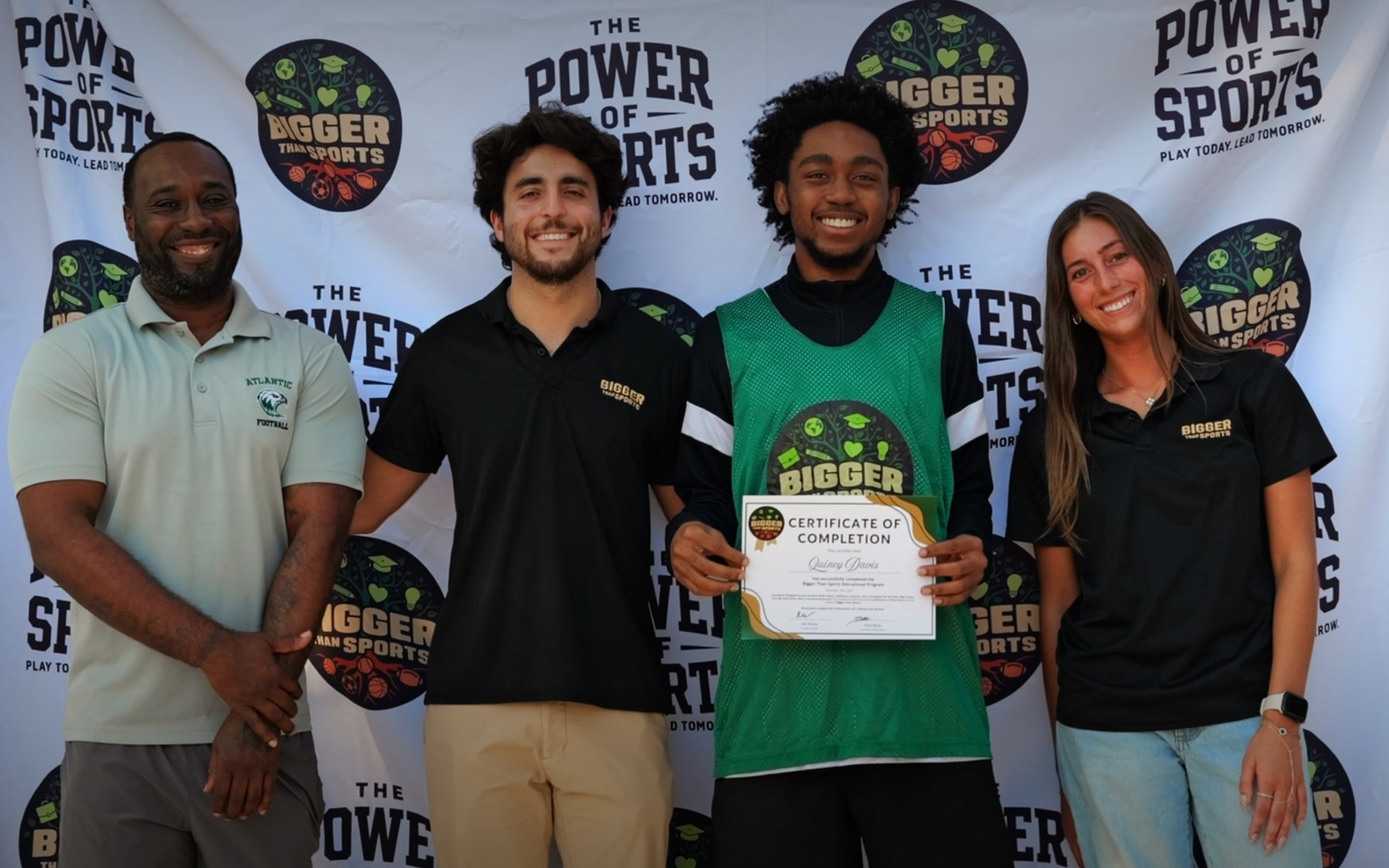
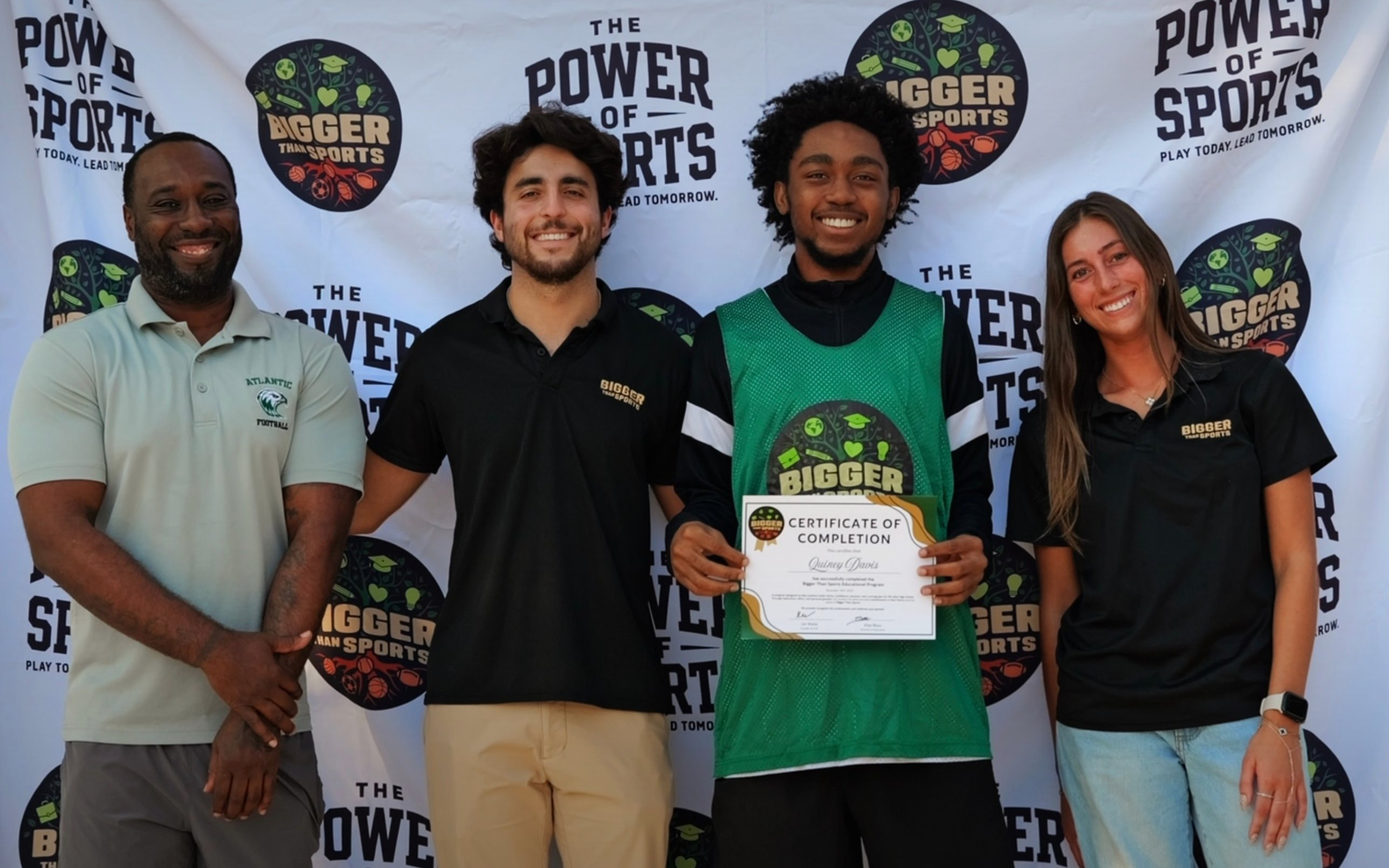
Lighten Results photo gradient further
Still too dark per Ian's feedback, dropped gradient strength roughly in half again.

Claude-Session: https://claude.ai/code/session_015eNAuB2LDyr9GM2ABpJr4N

diff --git a/index.html b/index.html
@@ -89,7 +89,7 @@
     <div class="program-col">
       <h3>The Results</h3>
       <p>Students leave our program with a concrete plan for college, a trade, or a career, along with the confidence to see themselves as more than an athlete, so that when the game ends, they know they have the tools to pursue a dream that is bigger than sports.</p>
-      <img src="program-the-results.jpg?v=20261116b" alt="A Bigger Than Sports student holding his Certificate of Completion with his mentors and coach">
+      <img src="program-the-results.jpg?v=20261116c" alt="A Bigger Than Sports student holding his Certificate of Completion with his mentors and coach">
     </div>
   </div>
 
